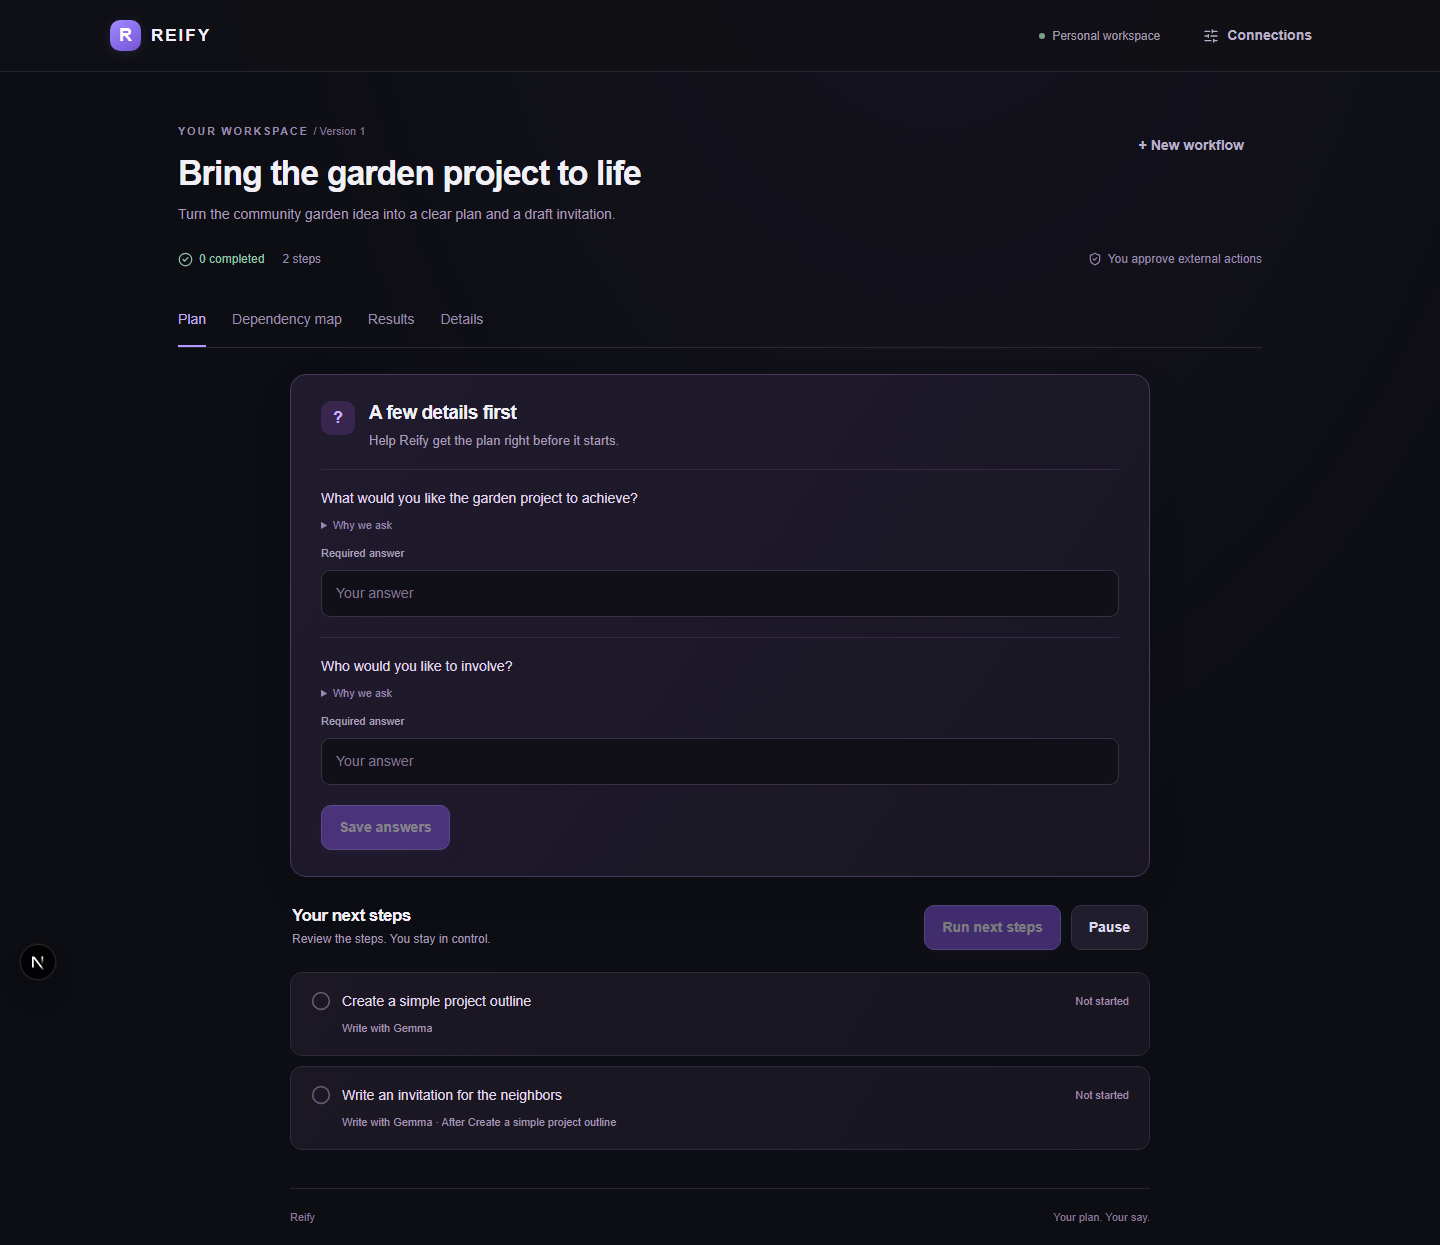
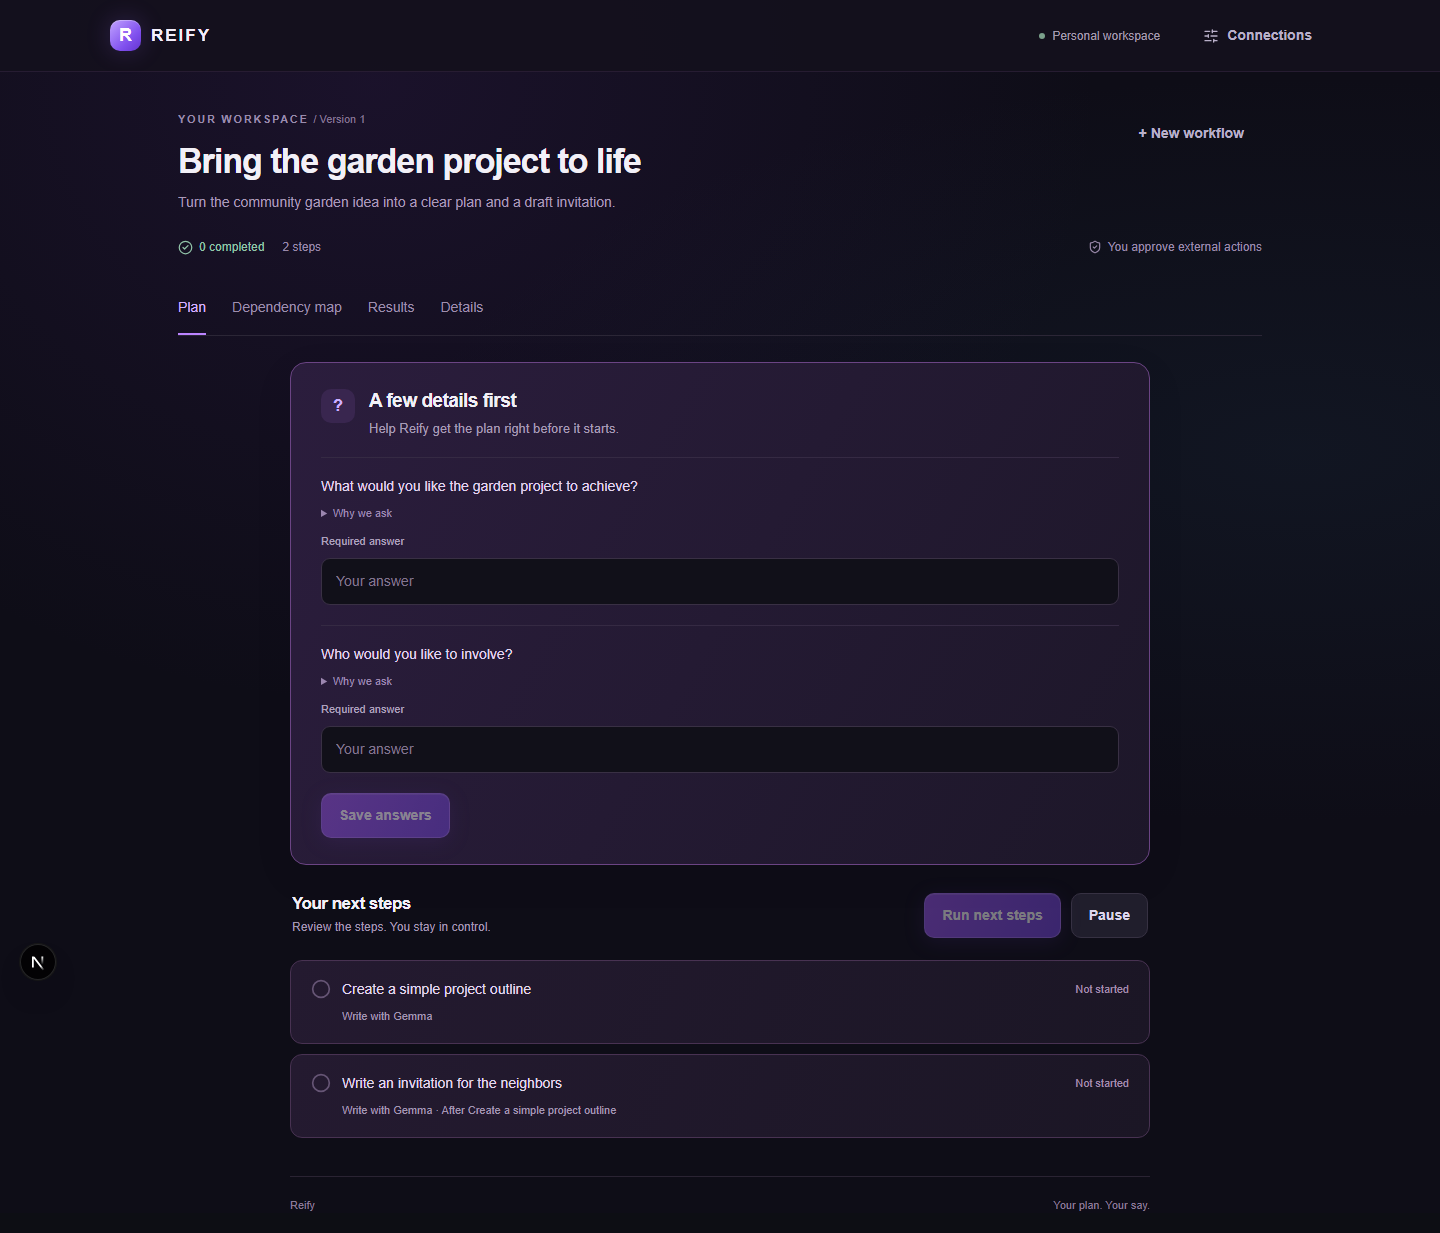
Add depth and stronger violet accents to the dark interface

diff --git a/app/globals.css b/app/globals.css
@@ -14,7 +14,9 @@
 body {
   margin: 0;
   background:
-    radial-gradient(ellipse at 65% -20%, #34274738, transparent 55%), #0d0e14;
+    radial-gradient(ellipse at 26% 8%, #47237138 0%, transparent 48%),
+    radial-gradient(ellipse at 90% 45%, #203b5230 0%, transparent 48%), #0e0d17;
+  background-attachment: fixed;
 }
 button,
 input,
@@ -60,13 +62,16 @@ button:disabled {
   cursor: not-allowed;
 }
 button.primary {
-  background: #8053dc;
   color: #fff;
-  border-color: #a489f6;
-  box-shadow: 0 3px 16px #8558ed22;
+  background: linear-gradient(115deg, #9453e5, #7145d7);
+  border-color: #bc8dff88;
+  box-shadow:
+    0 4px 20px #8750e735,
+    inset 0 1px 0 #ffffff22;
 }
 button.primary:hover {
-  background: #885de3;
+  background: linear-gradient(115deg, #a065ed, #8052df);
+  box-shadow: 0 6px 24px #8750e750;
 }
 button.quiet {
   background: transparent;
@@ -87,8 +92,8 @@ header {
   align-items: center;
   justify-content: space-between;
   border-bottom: 1px solid var(--border);
-  background: #101016ed;
-  border-bottom-color: #242331;
+  background: #14101de8;
+  border-bottom-color: #44305266;
 }
 .brand {
   display: flex;
@@ -107,9 +112,11 @@ header {
   place-items: center;
   letter-spacing: 0;
   font-size: 18px;
-  background: linear-gradient(145deg, #a18aff, #7354d6);
   color: white;
-  box-shadow: 0 2px 14px #9774ef20;
+  background: linear-gradient(135deg, #c1a3ff, #8050ee 65%, #6435cf);
+  box-shadow:
+    0 0 24px #9c65ff35,
+    inset 0 1px 0 #ffffff50;
 }
 .row {
   display: flex;
@@ -136,12 +143,13 @@ header {
 }
 main {
   max-width: 1140px;
-  padding: 36px 28px 0;
   margin: auto;
+  padding: 24px 28px 0;
 }
 .hero {
   text-align: center;
-  padding: 38px 0 24px;
+  padding: 20px 0 20px;
+  position: relative;
 }
 .eyebrow {
   font-size: 11px;
@@ -179,36 +187,44 @@ p {
   color: #a69cb5;
 }
 .hero p {
-  font-size: 16px;
-  color: #a99bb9;
+  color: #b9aacb;
+  font-size: 15px;
 }
 .panel {
   border: 1px solid var(--border);
   border-radius: 16px;
   padding: 28px;
-  background: linear-gradient(140deg, #1b1925, #16151f);
-  border-color: #312c3e;
   box-shadow: 0 12px 40px #00000012;
+  background: linear-gradient(135deg, #211a2e, #19151f);
+  border-color: #43324e;
 }
 .composer {
   max-width: 730px;
   margin: 0 auto;
-  padding: 28px 32px;
+  position: relative;
+  background:
+    linear-gradient(135deg, #241b34, #191622 60%) padding-box,
+    linear-gradient(135deg, #8d59c1a0, #4f3a6670 40%, #4e6e8b70) border-box;
+  border: 1px solid transparent;
   box-shadow:
-    0 24px 80px #00000025,
-    0 1px 0 #ffffff03 inset;
+    0 20px 70px #00000038,
+    0 0 60px #8f4bdd09,
+    inset 0 1px 0 #ffffff05;
+  padding: 24px 30px;
 }
 .composer h2 {
   font-size: 16px;
   letter-spacing: -0.2px;
+  color: #f1e7ff;
 }
 .tabs {
   display: flex;
   gap: 6px;
-  margin: 20px 0;
-  padding: 5px;
   border-radius: 11px;
-  background: #111019;
+  background: #0e0b16a0;
+  padding: 5px;
+  border: 1px solid #33253f;
+  margin: 18px 0;
 }
 .tabs button {
   flex: 1;
@@ -217,13 +233,15 @@ p {
   border-color: transparent;
   padding: 11px 8px;
   font-weight: 500;
-  color: #9d91ad;
+  color: #b5a5c7;
 }
 .tabs button.active {
-  background: #2b233d;
-  color: #d7c6ff;
-  border-color: #534068;
-  box-shadow: 0 2px 7px #00000020;
+  background: linear-gradient(120deg, #613e8f, #45305e);
+  color: #f0e5ff;
+  border-color: #a47bd077;
+  box-shadow:
+    0 2px 10px #00000035,
+    inset 0 1px 0 #ffffff0c;
 }
 .field {
   display: block;
@@ -254,10 +272,11 @@ textarea {
   line-height: 1.7;
 }
 .composer textarea {
-  min-height: 165px;
   color: #eee8f5;
-  border-color: #3a3049;
-  background: #13111c;
+  background: #110e1a;
+  border-color: #574065;
+  min-height: 135px;
+  box-shadow: inset 0 2px 10px #00000018;
 }
 select {
   max-width: 280px;
@@ -385,8 +404,8 @@ select {
   color: #9e8ead;
 }
 .workspace-tabs button.active {
-  color: #c4adff;
-  border-bottom-color: #b699ff;
+  color: #d4b3ff;
+  border-bottom-color: #bb84ff;
 }
 .tab-count {
   font-size: 10px;
@@ -411,9 +430,9 @@ select {
   border-radius: 16px;
   padding: 26px 30px;
   margin-bottom: 28px;
-  background: linear-gradient(125deg, #201b2d, #191622);
-  border-color: #49375f;
   box-shadow: 0 12px 40px #00000012;
+  background: linear-gradient(120deg, #2b1d3d, #1d1729);
+  border-color: #6b4484;
 }
 .section-heading {
   display: flex;
@@ -486,9 +505,9 @@ select {
   margin: 10px 0;
   border: 1px solid var(--border);
   border-radius: 12px;
-  background: linear-gradient(120deg, #1b1824, #17151f);
-  border-color: #302939;
   box-shadow: 0 1px 0 #ffffff02 inset;
+  background: linear-gradient(110deg, #241a30, #1b1625);
+  border-color: #483252;
 }
 .task > .row:first-child {
   flex-wrap: nowrap;
@@ -742,6 +761,42 @@ audio {
   border-radius: 12px;
   background: #2c203c;
 }
+.hero .eyebrow {
+  display: inline-flex;
+  align-items: center;
+  gap: 8px;
+  padding: 7px 12px;
+  border-radius: 30px;
+  border: 1px solid #76519e55;
+  background: #39234a40;
+  color: #c2a6e0;
+  font-size: 10px;
+  letter-spacing: 1.2px;
+}
+.hero .eyebrow::before {
+  content: "";
+  width: 5px;
+  height: 5px;
+  border-radius: 50%;
+  background: #c3a1ff;
+  box-shadow: 0 0 12px #b48aff;
+}
+.tabs button svg {
+  color: #b596e4;
+}
+.tabs button.active svg {
+  color: #e6d3ff;
+}
+.composer select {
+  background: #1e162b;
+  border-color: #574065;
+}
+input:focus,
+textarea:focus,
+select:focus {
+  border-color: #ac7ce2;
+  box-shadow: 0 0 0 3px #a56be81a;
+}
 @media (max-width: 700px) {
   header {
     height: 64px;
@@ -929,9 +984,15 @@ textarea.action-field {
 /* Reify midnight: quiet depth, clear hierarchy, violet accents. */
 .hero h1 {
   color: #f4f1f9;
+  font-size: clamp(36px, 4vw, 50px);
+  letter-spacing: -2px;
+  margin: 16px 0 14px;
 }
 .hero h1 span {
-  color: #b7a0ff;
+  color: #c3a4ff;
+  background: linear-gradient(100deg, #e3c6ff, #b08bff 55%, #8eacff);
+  background-clip: text;
+  -webkit-text-fill-color: transparent;
 }
 .react-flow {
   --xy-background-color: #13111b;

diff --git a/docs/TEST_REPORT.md b/docs/TEST_REPORT.md
@@ -85,3 +85,5 @@ Replaced the simultaneous four-panel workspace with Plan, Dependency map, Result
 Retained the requested dark visual direction with charcoal surfaces, violet accents and purple card depth after the user rejected the interim light theme. Desktop and 390px mobile screenshots were visually inspected; mobile had no horizontal overflow. Screenshots docs/ui-start.png and docs/ui-plan-desktop.png / docs/ui-plan-mobile.png use synthetic community-garden content, not private user input.
 
 Verification: lint PASS, typecheck PASS, 67 unit tests PASS, production build PASS, all 12 browser/API checks PASS (17.1 seconds). The added workspace check covers clarification blocking, view switching, friendly fields versus hidden JSON, native modal Escape behavior, focus return and mobile overflow. An initial test run exposed a settings focus-return issue; fixed it and verified the full suite. Adapter behavior was not changed; live Twinly verification is still pending and not claimed. No external calls/messages were made for UI verification.
+
+Visual polish follow-up: strengthened the dark palette with violet/blue ambient gradients, a gradient headline, brighter selected input tabs, a more distinct composer border and a stronger primary action. Tightened start-screen spacing and textarea height. Desktop/mobile synthetic screenshots were refreshed and visually reviewed; mobile overflow remained absent. Production build PASS; all 12 browser/API checks PASS (15.3 seconds). This pass changed presentation only; no live-provider behavior was tested or changed.
